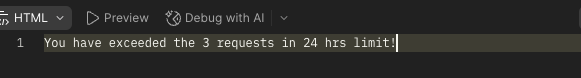
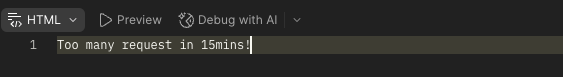
update readme

Changed region(s): [[0.0302, 0.4416, 1.0, 0.7013], [0.0, 0.0779, 0.5435, 0.4156], [0.9964, 0.1039, 1.0, 0.3377]]

diff --git a/server/rateLimiter.js b/server/rateLimiter.js
@@ -2,12 +2,12 @@ import {rateLimit} from 'express-rate-limit';
 
 const limiter = rateLimit({
     windowMs:15 * 60 * 1000,
-    max: 100,
+    max: 3,
     standardHeaders: 'draft-8',
     legacyHeaders: false,
     ipv6Subnet: 56,
     statusCode: 429,
-    message: 'You have exceeded the 3 requests in 24 hrs limit!', 
+    message: 'Too many request in 15mins!', 
 
 })
 

diff --git a/server/server.js b/server/server.js
@@ -1,7 +1,6 @@
 
 import app from './app.js';
 import dotenv from 'dotenv';
-import rateLimiter from './rateLimiter.js';
 dotenv.config();
 
 const port = process.env.PORT || 3001;
